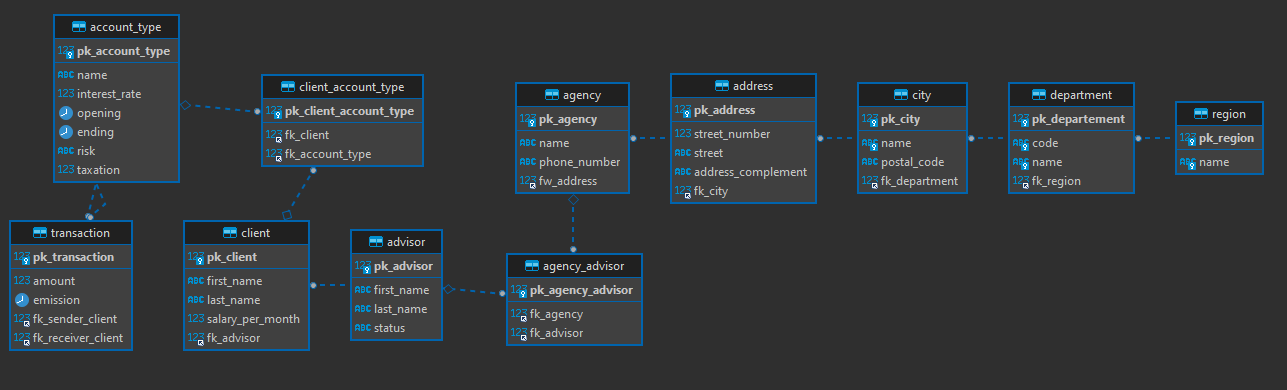
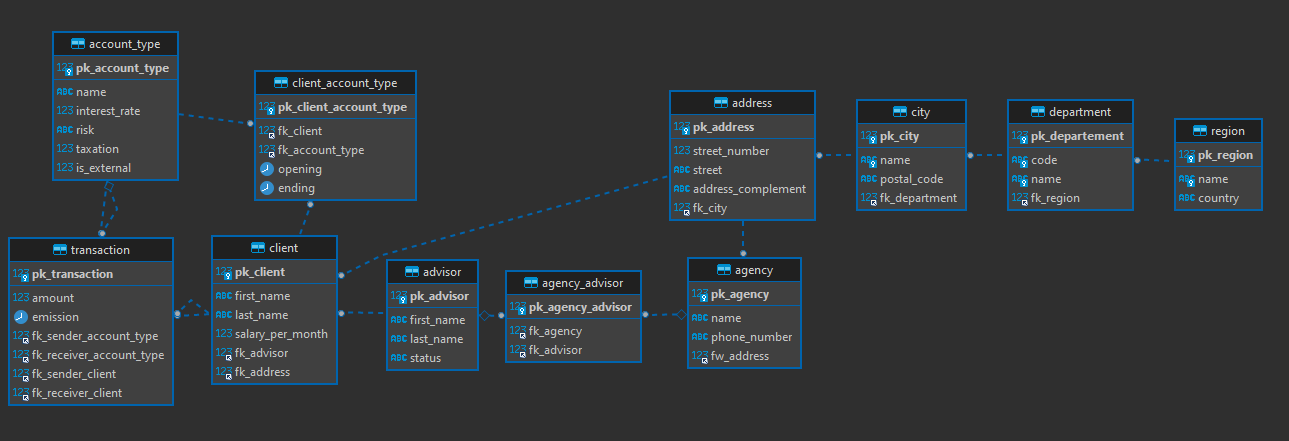
Diagram v2.6 & Seeder v2.1

Changed region(s): [[0.0, 0.0308, 0.6216, 0.9231], [0.373, 0.1846, 0.9946, 0.5231]]

diff --git a/main.py b/main.py
@@ -15,6 +15,46 @@ fake = Faker('fr_FR')
 print(mydb)
 mycursor = mydb.cursor()
 
+country = ['France', 'Canada', 'Suisse', 'Angleterre']
+
+account_type = [{
+  'name': 'Livret A',
+  'interest_rate': 3,
+}, {
+  'name': 'LDDS',
+  'interest_rate': 3,
+}, {
+  'name': 'LEP',
+  'interest_rate': 6.1,
+}, {
+  'name': 'Livret Jeune',
+  'interest_rate': 3,
+}, {
+  'name': 'CEL',
+  'interest_rate': 2,
+  'taxation': True
+}, {
+  'name': 'PEL',
+  'interest_rate': 2,
+  'taxation': True
+}, {
+  'name': 'PREP',
+  'interest_rate': None,
+  'taxation': True
+}, {
+  'name': 'CAT',
+  'interest_rate': 3,
+  'taxation': True
+}, {
+  'name': 'Compte Bancaire Individuel',
+  'interest_rate': None,
+  'is_external': True
+}, {
+  'name': 'Compte Bancaire Joint',
+  'interest_rate': None,
+  'is_external': True
+}]
+
 #######################################################################################
 # Utils
 #######################################################################################
@@ -26,24 +66,33 @@ def insert_many(table, fields, values, n_values):
   mydb.commit()
 
 
+def select(table, fields, conditions):
+  request = "SELECT {} FROM {} WHERE {}".format(fields, table, conditions)
+  mycursor.execute(request)
+  return mycursor.fetchall()
+
+
 #######################################################################################
 # Generators
 #######################################################################################
 
 
 # id, name vc(25)
-def insert_region(n):
+def insert_region(loop_number):
   values = []
-  for _ in range(n):
-    values.append((fake.unique.region(), ))
-  insert_many("region", "name", values, "%s")
+  for _ in range(loop_number):
+    values.append((
+      fake.unique.region(),
+      country[random.randint(0, 3)],
+    ))
+  insert_many("region", "name, country", values, "%s, %s")
 
 
 # id, code char(3), name varchar(25), id_region
-def insert_department(n):
+def insert_department(loop_number):
   id = 1
   values = []
-  for _ in range(n):
+  for _ in range(loop_number):
     dpt = fake.unique.department()
     values.append((
       dpt[0],
@@ -55,10 +104,10 @@ def insert_department(n):
 
 
 # id, name vc(50), postal_code vc(5), id_department
-def insert_city(n):
+def insert_city(loop_number):
   id = 1
   values = []
-  for _ in range(n):
+  for _ in range(loop_number):
     values.append((
       fake.unique.city(),
       fake.unique.postcode(),
@@ -69,35 +118,35 @@ def insert_city(n):
 
 
 # id, street_number smallint, street vc(250), address_complement vc(100), id_city
-def insert_address(n, max1):
+def insert_address(loop_number, max_fk_city):
   values = []
-  for _ in range(n):
+  for _ in range(loop_number):
     values.append((
       fake.building_number(),
       fake.street_name(),
       fake.street_prefix(),
-      random.randint(1, max1),
+      random.randint(1, max_fk_city),
     ))
   insert_many("address", "street_number, street, address_complement, fk_city",
               values, "%s, %s, %s, %s")
 
 
 # id, name vc(500), phone_number vc(13), id_address
-def insert_agency(n, max1):
+def insert_agency(loop_number, max_fw_address):
   values = []
-  for _ in range(n):
+  for _ in range(loop_number):
     values.append((
       fake.company(),
       fake.msisdn(),
-      random.randint(1, max1),
+      random.randint(1, max_fw_address),
     ))
   insert_many("agency", "name, phone_number, fw_address", values, "%s, %s, %s")
 
 
 # id, first_name, last_name, id_address
-def insert_advisor(n, max1):
+def insert_advisor(loop_number):
   values = []
-  for _ in range(n):
+  for _ in range(loop_number):
     values.append((
       fake.first_name(),
       fake.last_name(),
@@ -107,88 +156,144 @@ def insert_advisor(n, max1):
 
 
 # id_agency, id_advisor
-def insert_agency_advisor(n, max1, max2):
+def insert_agency_advisor(loop_number, max_fk_agency, max_fk_advisor):
   values = []
-  for _ in range(n):
+  for _ in range(loop_number):
     values.append((
-      random.randint(1, max1),
-      random.randint(1, max2),
+      random.randint(1, max_fk_agency),
+      random.randint(1, max_fk_advisor),
     ))
   insert_many("agency_advisor", "fk_agency, fk_advisor", values, "%s, %s")
 
 
-def insert_account_type(n):
+def insert_account_type():
   values = []
-  for _ in range(n):
-    start_date = fake.date_between()
-    end_date = datetime.date(2029, 1, 1)
+  for i in range(len(account_type)):
     values.append((
-      round(random.uniform(0.00, 9.99), 2),
-      start_date,
-      fake.date_between(start_date, end_date),
+      account_type[i]['name'],
+      account_type[i]['interest_rate'],
       random.randint(1, 3),
+      account_type[i]['taxation'] if 'taxation' in account_type[i] else False,
+      account_type[i]['is_external']
+      if 'is_external' in account_type[i] else False,
     ))
-  insert_many("account_type", "interest_rate, opening, ending, risk", values,
-              "%s, %s, %s, %s")
+  insert_many("account_type",
+              "name, interest_rate, risk, taxation, is_external", values,
+              "%s, %s, %s, %s, %s")
 
 
 # id, first_name, last_name, address, id_agency
-def insert_client(n, max):
+def insert_client(loop_number, max_fk_advisor, max_fk_address):
   values = []
-  for _ in range(n):
+  for _ in range(loop_number):
     values.append((
       fake.first_name(),
       fake.last_name(),
       random.randint(1, 15000),
-      random.randint(1, max),
+      random.randint(1, max_fk_advisor),
+      random.randint(1, max_fk_address),
     ))
-  insert_many("client", "first_name, last_name, salary_per_month, fk_advisor",
-              values, "%s, %s, %s, %s")
+  insert_many(
+    "client",
+    "first_name, last_name, salary_per_month, fk_advisor, fk_address", values,
+    "%s, %s, %s, %s, %s")
 
 
-def insert_client_account_type(n, max1, max2):
+def insert_client_account_type(loop_number, max_fk_client,
+                               max_fk_account_type):
   values = []
-  for _ in range(n):
+  for _ in range(loop_number):
+    start_date = fake.date_between()
+    end_date = datetime.date(2029, 1, 1)
     values.append((
-      random.randint(1, max1),
-      random.randint(1, max2),
+      random.randint(1, max_fk_client),
+      random.randint(1, max_fk_account_type),
+      start_date,
+      fake.date_between(start_date, end_date),
     ))
-  insert_many("client_account_type", "fk_client, fk_account_type", values,
-              "%s, %s")
+  insert_many("client_account_type",
+              "fk_client, fk_account_type, opening, ending", values,
+              "%s, %s, %s, %s")
 
 
 # id, amount, label, id_emitter, id_reciever
-def insert_transaction(n, max):
+def insert_transaction_of_current_vie(loop_number, max_fk_client):
   values = []
-  for _ in range(n):
+  account_type = select('account_type', 'pk_account_type', "is_external=1")
+  for _ in range(loop_number):
     start_date = fake.date_between()
     end_date = datetime.date(2029, 1, 1)
     values.append((
       random.randint(-10000, 10000),
-      random.randint(1, max),
-      random.randint(1, max),
       fake.date_between(start_date, end_date),
+      account_type[random.randint(0,
+                                  len(account_type) - 1)][0],
+      account_type[random.randint(0,
+                                  len(account_type) - 1)][0],
+      random.randint(1, max_fk_client),
+      random.randint(1, max_fk_client),
     ))
 
   # Allows to insert 100000 per 100000
   for element in [values[x:x + 100000] for x in range(0, len(values), 100000)]:
-    insert_many("transaction",
-                "amount, fk_sender_client, fk_receiver_client, emission",
-                element, "%s, %s, %s, %s")
+    insert_many(
+      "transaction",
+      "amount, emission, fk_sender_account_type, fk_receiver_account_type, fk_sender_client, fk_receiver_client",
+      element, "%s, %s, %s, %s, %s, %s")
+
+
+def insert_internal_transaction(loop_number, max_fk_client):
+  values = []
+  for _ in range(loop_number):
+    start_date = fake.date_between()
+    end_date = datetime.date(2029, 1, 1)
+
+    client_choose = random.randint(1, max_fk_client)
+
+    client_account_type = select(table='client_account_type',
+                                 fields='fk_account_type',
+                                 conditions='fk_client=' + str(client_choose))
+
+    size = len(client_account_type) - 1
+    if size > 0:
+      values.append((
+        random.randint(-10000, 10000),
+        fake.date_between(start_date, end_date),
+        client_account_type[random.randint(0,
+                                           len(client_account_type) - 1)][0],
+        client_account_type[random.randint(0,
+                                           len(client_account_type) - 1)][0],
+        client_choose,
+        client_choose,
+      ))
+    elif size <= 0:
+      continue
+
+  # Allows to insert 100000 per 100000
+  for element in [values[x:x + 100000] for x in range(0, len(values), 100000)]:
+    insert_many(
+      "transaction",
+      "amount, emission, fk_sender_account_type, fk_receiver_account_type, fk_sender_client, fk_receiver_client",
+      element, "%s, %s, %s, %s, %s, %s")
 
 
 #######################################################################################
 # Runners
 #######################################################################################
 
-insert_region(10)
-insert_department(10)
-insert_city(10)
-insert_address(1_000, 10)
-insert_agency(500, 1_000)
-insert_advisor(1_000, 1_000)
-insert_agency_advisor(250, 500, 1_000)
-insert_account_type(500)
-insert_client(10_000, 1_000)
-insert_client_account_type(10_000, 10_000, 500)
-insert_transaction(1_000_000, 10_000)
+insert_region(loop_number=10)
+insert_department(loop_number=10)
+insert_city(loop_number=10)
+insert_address(loop_number=1_000, max_fk_city=10)
+insert_agency(loop_number=500, max_fw_address=1_000)
+insert_advisor(loop_number=1_000)
+insert_agency_advisor(loop_number=250, max_fk_agency=500, max_fk_advisor=1_000)
+
+insert_account_type()
+insert_client(loop_number=10_000, max_fk_advisor=1_000, max_fk_address=1_000)
+insert_client_account_type(loop_number=20_000, max_fk_client=10_000, max_fk_account_type=len(account_type))
+
+insert_transaction_of_current_vie(loop_number=500_000, max_fk_client=10_000)
+insert_internal_transaction(loop_number=500_000, max_fk_client=10_000)
+
+print('OK')
